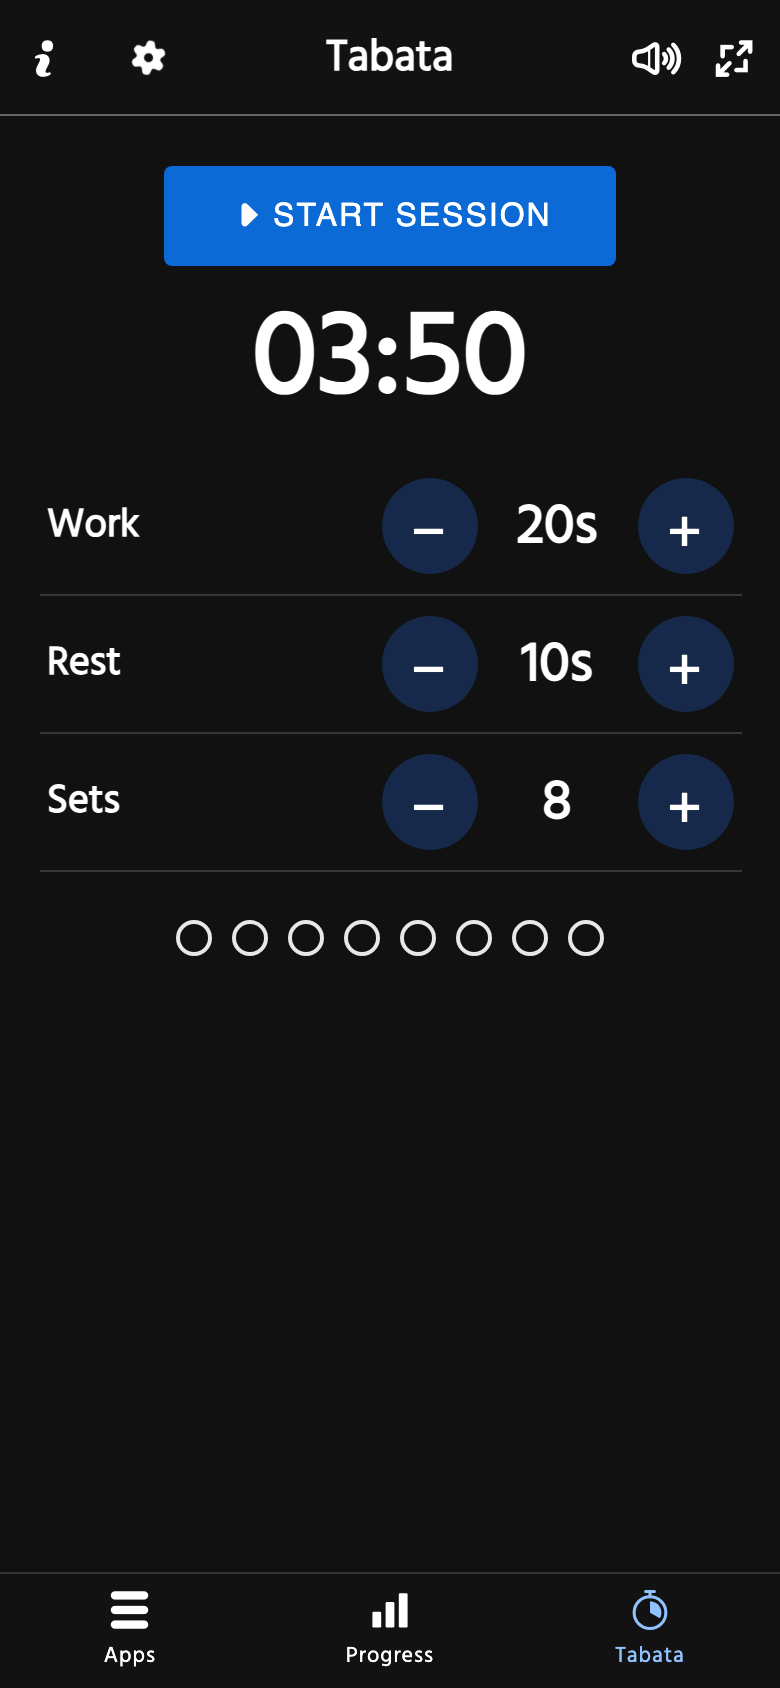
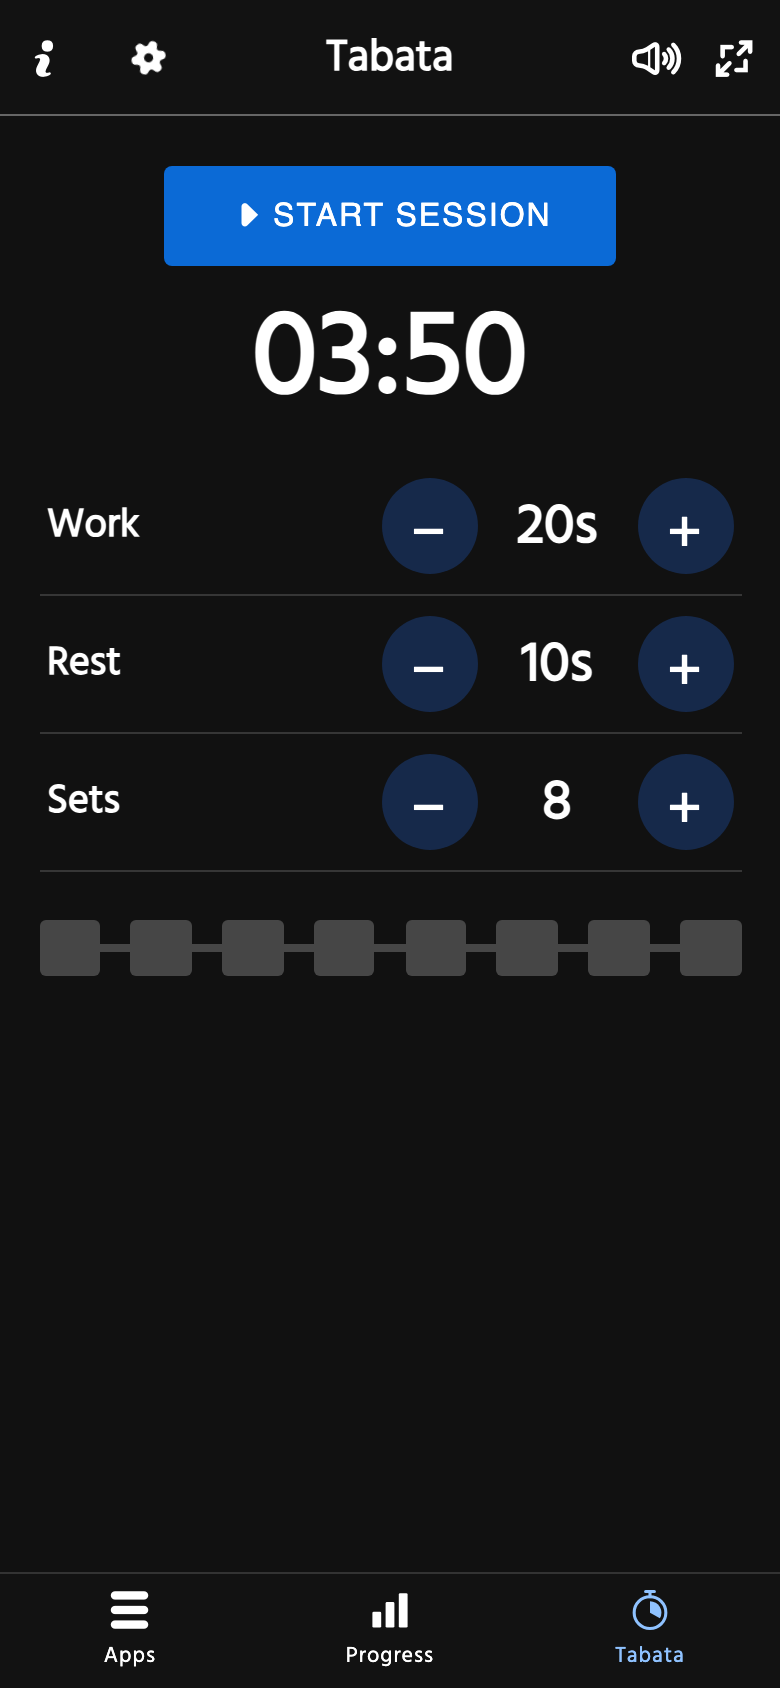
Tabata: the session drawn to scale instead of a dot a set
A dot a set didn't scale - fifty of them were noise - and said nothing
about the work and rest. Now one bar: a block a set's work and a line its
rest, so 20/10 looks like 20/10. A faint copy shows all of it, and a solid
copy on top is cut off where the session has got to. It reshapes as the
settings change, and stays one bar from 1 set to 50; with no rest, the
sets keep a gap between them.

The dots go back to being no hangs' own CSS.

Changed region(s): [[0.0308, 0.5237, 0.9538, 0.5853]]

diff --git a/website/training/tabata/main.js b/website/training/tabata/main.js
@@ -22,15 +22,19 @@ const totalSeconds = () => settings.sets * setSeconds() - settings.rest;
 // the main clock counts down what is left of the session
 app.clock = secondsClock(seconds => {
     showElapsed(totalSeconds() - seconds);
+    showProgress(seconds);
     seconds < totalSeconds() ? showSecond(seconds) : finish();
 });
 
-app.onGo = () => showSecond(0);
+app.onGo = () => {
+    showProgress(0);
+    showSecond(0);
+};
 
 app.onReset = () => {
     showElapsed(totalSeconds());
     document.getElementById("first").hidden = true;
-    markSets(0, false);
+    showProgress(0);
 };
 
 app.logEntry = () => ({ "work" : settings.work, "rest" : settings.rest, "sets" : settings.sets });
@@ -51,7 +55,6 @@ function showSecond(seconds){
         document.getElementById("first").hidden = false;
         document.getElementById("first_task").innerText = "Work";
         document.getElementById("first_rep").innerText = `Set ${index + 1} of ${settings.sets}`;
-        markSets(index, true);
         background("green");
         ping();
         if(index === settings.sets - 1 && settings.sets > 1){ speak("Last one"); }
@@ -59,7 +62,6 @@ function showSecond(seconds){
     if(into === settings.work){
         document.getElementById("first_task").innerText = "Rest, then";
         document.getElementById("first_rep").innerText = `Set ${index + 2} of ${settings.sets}`;
-        markSets(index + 1, false);
         background("");
         ping();
     }
@@ -74,7 +76,6 @@ function showSecond(seconds){
 function finish(){
     background("");
     document.getElementById("first").hidden = true;
-    markSets(settings.sets, false);
     speak("Done");
     finishSession();
 }
@@ -119,22 +120,48 @@ function drawSettings(){
         document.querySelector(`[data-setting="${name}"][data-step="1"]`).disabled = settings[name] >= limits[name].max;
     });
     showElapsed(totalSeconds());
-    drawSets();
+    drawTimeline();
 }
 
-/* ================= The sets, a dot each ================= */
+/* ================= The session, drawn to scale =================
+   A block a set's work and a line its rest, so 20/10 looks like 20/10. Two
+   copies of it: the faint one is all of it, and the solid one on top is cut
+   off where the session has got to. */
 
-function drawSets(){
-    document.getElementById("sets").innerHTML = '<span class="pip"></span>'.repeat(settings.sets);
-    document.getElementById("sets").setAttribute("aria-label", plural(settings.sets, "set"));
-}
+// each work and rest in the solid copy, with when it starts and how long it is
+let phases = [];
 
-// done is how many sets are over, and working lights the next one's dot
-function markSets(done, working){
-    document.querySelectorAll("#sets .pip").forEach((pip, index) => {
-        pip.classList.toggle("done", index < done);
-        pip.classList.toggle("working", working && index === done);
+function drawTimeline(){
+    let html = "";
+    for(let set = 0; set < settings.sets; set++){
+        html += `<i class="work" style="flex-grow: ${settings.work}"></i>`;
+        // no rest after the last set; none at all still leaves a gap between sets
+        if(set < settings.sets - 1){ html += `<i class="${settings.rest > 0 ? "rest" : "gap"}" style="flex-grow: ${settings.rest}"></i>`; }
+    }
+    document.getElementById("todo").innerHTML = html;
+    document.getElementById("done").innerHTML = html;
+    let start = 0;
+    phases = [...document.querySelectorAll("#done i")].map((element, index) => {
+        let length = index % 2 === 0 ? settings.work : settings.rest;
+        start += length;
+        return { "element" : element, "start" : start - length, "length" : length };
     });
+    document.getElementById("timeline").setAttribute("aria-valuemax", totalSeconds());
+    showProgress(0);
+}
+
+// From the blocks as drawn rather than the seconds, as each gap has a width of its own
+function showProgress(seconds){
+    let timeline = document.getElementById("timeline");
+    let phase = phases.find(each => seconds < each.start + each.length) || phases[phases.length - 1];
+    let into = Math.min(1, (seconds - phase.start) / (phase.length || 1));
+    let edge = phase.element.offsetLeft + phase.element.offsetWidth * into;
+    let percent = timeline.offsetWidth ? 100 - edge / timeline.offsetWidth * 100 : 100;
+    document.getElementById("done").style.clipPath = `inset(0 ${percent}% 0 0)`;
+    timeline.setAttribute("aria-valuenow", seconds);
+    // countedIn is common/workout.js's: whether the session has begun
+    timeline.setAttribute("aria-valuetext", !countedIn ? plural(settings.sets, "set")
+        : `Set ${Math.min(settings.sets, Math.floor(seconds / setSeconds()) + 1)} of ${settings.sets}`);
 }
 
 document.addEventListener("DOMContentLoaded", () => {

diff --git a/cypress/e2e/training-apps.cy.js b/cypress/e2e/training-apps.cy.js
@@ -559,13 +559,16 @@ describe('Training apps', function () {
             visitWorkout('/training/tabata/');
             // the classic: 8 sets of 20 on, 10 off, less the rest after the last
             cy.get('#elapsed').should('have.text', '03:50');
-            cy.get('#sets .pip').should('have.length', 8);
+            cy.get('#todo .work').should('have.length', 8);   // a block a set's work, a line its rest
+            cy.get('#todo .rest').should('have.length', 7);
             tap(...times(2, '[data-setting="sets"][data-step="-1"]'));
             cy.get('#setsValue').should('have.text', '6');
             cy.get('#elapsed').should('have.text', '02:50');
-            cy.get('#sets .pip').should('have.length', 6);
+            cy.get('#todo .work').should('have.length', 6);
             tap(...times(2, '[data-setting="rest"][data-step="-1"]'));
             cy.get('[data-setting="rest"][data-step="-1"]').should('be.disabled');   // no rest at all is the least
+            cy.get('#todo .rest').should('not.exist');
+            cy.get('#todo .gap').should('have.length', 5);   // still apart, with nothing between them
             tap(...times(2, '[data-setting="rest"][data-step="1"]'));
             cy.window().its('localStorage').invoke('getItem', 'tabataSettings').then((saved) => {
                 expect(JSON.parse(saved)).to.deep.equal({ work: 20, rest: 10, sets: 6 });
@@ -580,12 +583,12 @@ describe('Training apps', function () {
             cy.get('#first_task').should('have.text', 'Work');
             cy.get('#first_rep').should('have.text', 'Set 1 of 6');
             cy.get('body').should('have.class', 'green');
-            cy.get('#sets .pip.working').should('have.length', 1);
+            cy.get('#timeline').should('have.attr', 'aria-valuetext', 'Set 1 of 6');
             cy.tick(20000);
             cy.get('#first_task').should('have.text', 'Rest, then');
             cy.get('#first_rep').should('have.text', 'Set 2 of 6');
             cy.get('body').should('not.have.class', 'green');
-            cy.get('#sets .pip.done').should('have.length', 1);
+            cy.get('#timeline').should('have.attr', 'aria-valuenow', '20');
             cy.tick(7000);
             cy.get('body').should('have.class', 'red');
             cy.tick(3000);
@@ -596,7 +599,8 @@ describe('Training apps', function () {
             cy.tick(140000);
             cy.get('#elapsed').should('have.text', '00:00');
             cy.get('#endingDiv').should('be.visible');
-            cy.get('#sets .pip.done').should('have.length', 6);
+            cy.get('#timeline').should('have.attr', 'aria-valuenow', '170');
+            cy.get('#done').should('have.attr', 'style').and('contain', 'inset(0px 0% 0px 0px)');   // all of it solid
             cy.window().its('spoken').should('include', 'Last one').and('include', 'Done');
             cy.get('#saveSession').click();
             cy.window().its('localStorage').invoke('getItem', 'tabataLog').then((log) => {

diff --git a/website/training/tabata/style.css b/website/training/tabata/style.css
@@ -57,17 +57,43 @@ body:not([data-state="idle"]) #setup {
     margin-bottom: 4px;
 }
 
-/* The dots in a row that wraps, bigger than no hangs' as there's nothing else below */
-.sets {
-    display: flex;
-    flex-wrap: wrap;
-    justify-content: center;
-    gap: 10px;
+/* The session to scale: a block a set's work, a line its rest. In the text
+   colour, so it reads on the green and the red as well as the page */
+.timeline {
+    position: relative;
     width: 90%;
     max-width: var(--column);
+    height: 28px;
     margin: 24px auto;
 }
-.pip {
-    width: 18px;
-    height: 18px;
+.track {
+    position: absolute;
+    inset: 0;
+    display: flex;
+    align-items: center;
+}
+.track i {
+    flex-basis: 0;
+    min-width: 1px;
+}
+.work {
+    align-self: stretch;
+    border-radius: 3px;
+    background: currentColor;
+}
+.rest {
+    height: 4px;
+    min-width: 2px;
+    background: currentColor;
+}
+/* no rest: still a gap between sets, so 50 of them aren't one bar */
+.gap {
+    min-width: 2px;
+}
+/* all of it, faint; then what's done, solid, cut off at where you are */
+#todo {
+    opacity: 0.25;
+}
+#done {
+    clip-path: inset(0 100% 0 0);
 }

diff --git a/website/training/tabata/index.html b/website/training/tabata/index.html
@@ -80,8 +80,11 @@
 		</section>
 		<div id="endingDiv" class="ending"></div>
 	</div>
-	<!-- a dot a set, filled in from the settings and marked off as the session goes -->
-	<div class="sets" id="sets" role="img"></div>
+	<!-- the whole session to scale, filled in from the settings and as it goes -->
+	<div class="timeline" id="timeline" role="progressbar" aria-label="Session" aria-valuemin="0">
+		<div class="track" id="todo"></div>
+		<div class="track" id="done"></div>
+	</div>
 	<aside id="about" class="overlay">
 		<h2>Tabata</h2>
 		<p>Short, hard efforts with short rests. The classic is 20 seconds of work and 10 seconds of rest, eight times: four minutes in all.</p>

diff --git a/website/training/nohangs/style.css b/website/training/nohangs/style.css
@@ -37,7 +37,17 @@
     width: 12px;
     height: 12px;
     margin-left: 5px;
+    border: 2px solid currentColor;
+    border-radius: 50%;
     vertical-align: middle;
+}
+.pip.done {
+    background: currentColor;
+}
+.pip.hanging {
+    --hang: light-dark(var(--confirm), #4cd964);
+    border-color: var(--hang);
+    background: var(--hang);
 }
 /* The example photos, each already cut to a circle: four across, or two by two on a phone */
 .grips {

diff --git a/website/training/common/workout.css b/website/training/common/workout.css
@@ -79,17 +79,3 @@
         font-size: 28px;
     }
 }
-
-/* A dot a rep or set: filled once done, green while you're on it. Each app sizes its own */
-.pip {
-    border: 2px solid currentColor;
-    border-radius: 50%;
-}
-.pip.done {
-    background: currentColor;
-}
-.pip.hanging, .pip.working {
-    --go: light-dark(var(--confirm), #4cd964);
-    border-color: var(--go);
-    background: var(--go);
-}
